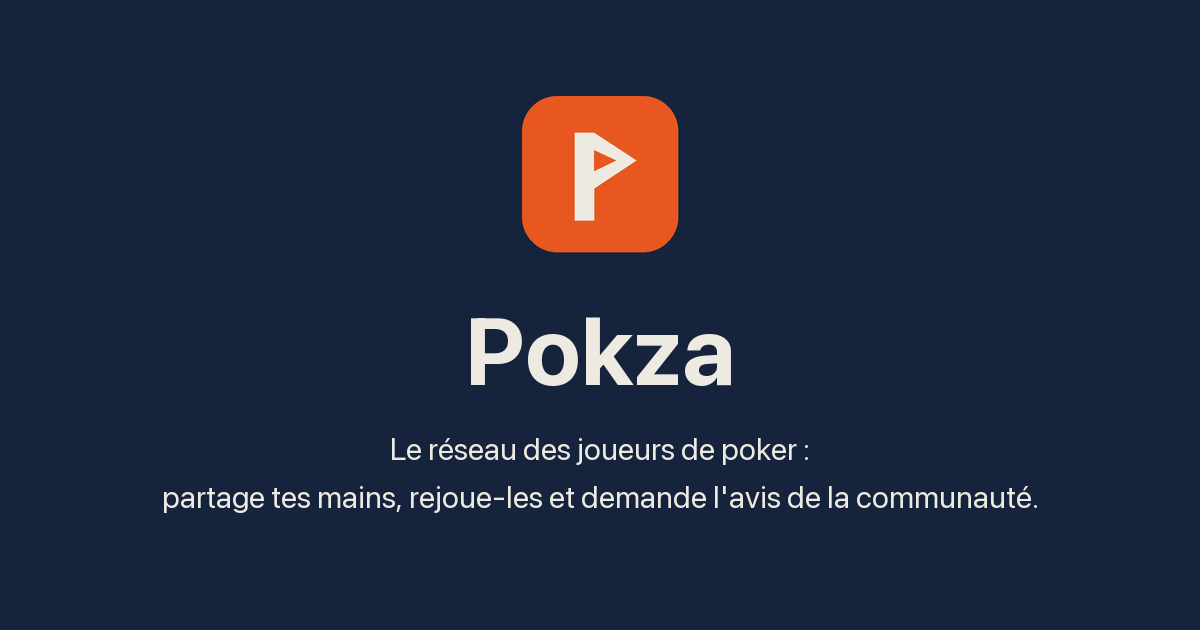
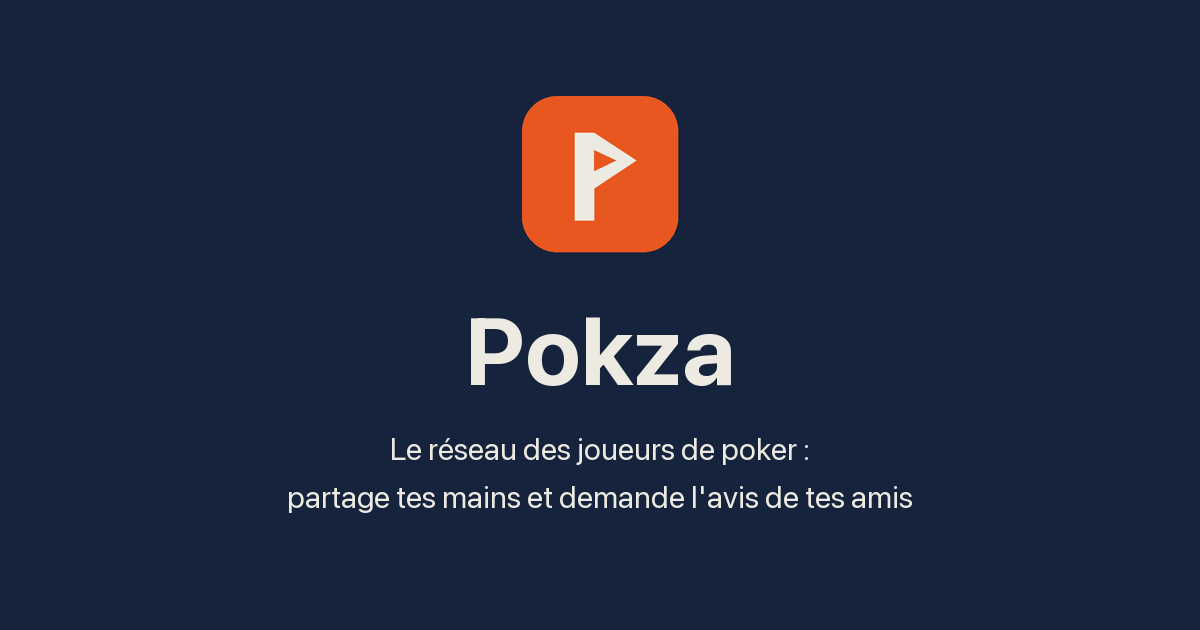
feat(partage): les textes des apercus, revus par Victor — et l'ecran d'un groupe suit
Les quatre changements demandes :
· la phrase d'en-tete devient « Le reseau des joueurs de poker : partage tes mains et
  demande l'avis de tes amis » ;
· une main dit « Main partagee sur Pokza. Donne ton avis en commentaire ! » — et « Main
  partagee sur Pokza » est mot pour mot la signature deja tranchee pour l'export en texte ;
· les deux invitations perdent le compte de membres et de mains : il ne reste que la phrase ;
· un groupe dit « t'invite dans LE GROUPE Miami 2026 ».

Deux consequences assumees, au-dela de ce qui etait demande :
· la phrase est recopiee dans `public/manifest.json` — c'est LA source, celle que lit
  `carte-apercu.py` pour dessiner la vignette et celle que voit qui installe la PWA. La
  laisser diverger aurait fait dire deux choses differentes a la meme carte ;
· `accueil_groupe.titre` gagne « le groupe » dans les 4 catalogues. Le commentaire du Worker
  promet que ce qu'on lit dans WhatsApp est ce qu'on lit apres le clic : changer l'apercu
  seul aurait casse cette promesse. 3 langues rescellees, audit i18n a zero trou.

Verifie au banc : les 4 chemins rendent les nouveaux textes, l'echappement tient toujours
(un titre portant `"`, `<script>` et `&` ressort echappe).

Changed region(s): [[0.1233, 0.754, 0.8633, 0.8143]]

diff --git a/pokza-app/worker.js b/pokza-app/worker.js
@@ -43,8 +43,11 @@
 // pourquoi des SECRETS et pas des variables.
 const VARS = ['EXPO_PUBLIC_SUPABASE_URL', 'EXPO_PUBLIC_SUPABASE_ANON_KEY'];
 
-const PHRASE = 'Le réseau des joueurs de poker : partage tes mains, rejoue-les et demande l\'avis de la communauté.';
-const MAIN = 'Une main partagée sur Pokza. Rejoue-la coup par coup.';
+// Recopie de `public/manifest.json` — c'est la même phrase que voit qui installe la PWA, et c'est
+// `scripts/carte-apercu.py` qui la dessine sur la vignette. Les trois bougent ensemble ou pas du tout.
+const PHRASE = 'Le réseau des joueurs de poker : partage tes mains et demande l\'avis de tes amis';
+// « Main partagée sur Pokza » est la signature déjà tranchée pour l'export d'une main en texte.
+const MAIN = 'Main partagée sur Pokza. Donne ton avis en commentaire !';
 
 /** Au-delà, toutes les messageries coupent — autant couper nous-mêmes, sur un mot et non au milieu. */
 function borne(texte, max) {
@@ -102,23 +105,18 @@ async function apercu(url, env) {
 
   if (porte === 'g') {
     // Le lien d'un groupe. Le titre reprend MOT POUR MOT la phrase de la page d'atterrissage
-    // (`groupes.accueil_titre`) : ce qu'on lit dans WhatsApp et ce qu'on lit après le clic doivent
-    // être la même phrase, sinon le clic ressemble à une erreur.
+    // (`accueil_groupe.titre`) : ce qu'on lit dans WhatsApp et ce qu'on lit après le clic doivent
+    // être la même phrase, sinon le clic ressemble à une erreur. Le 23/09, « le groupe » a été
+    // ajouté ICI par Victor — et donc aussi dans les 4 catalogues, pour tenir cette promesse.
     const g = await interroger(base, anon, '/rest/v1/rpc/group_link_preview', { p_token: cle });
     if (!g || !g.group_name) return 'groupe-introuvable';
-    return {
-      titre: `${g.host_name} t'invite dans ${g.group_name}`,
-      description: `${g.member_count} membre${g.member_count > 1 ? 's' : ''}. ${PHRASE}`,
-    };
+    return { titre: `${g.host_name} t'invite dans le groupe ${g.group_name}`, description: PHRASE };
   }
 
   if (porte === 'invite') {
     const p = await interroger(base, anon, '/rest/v1/rpc/profile_invite_preview', { p_user: cle });
     if (!p || !p.host_name) return 'profil-introuvable';
-    // À zéro main, on ne dit pas « 0 main partagée » : ce serait un argument contre soi. Même règle
-    // que l'écran (`InvitationProfilScreen`), qui masque la ligne dans ce cas.
-    const mains = p.hand_count > 0 ? `${p.hand_count} main${p.hand_count > 1 ? 's' : ''} partagée${p.hand_count > 1 ? 's' : ''}. ` : '';
-    return { titre: `${p.host_name} t'invite sur Pokza`, description: mains + PHRASE };
+    return { titre: `${p.host_name} t'invite sur Pokza`, description: PHRASE };
   }
 
   if (porte === 's') {
